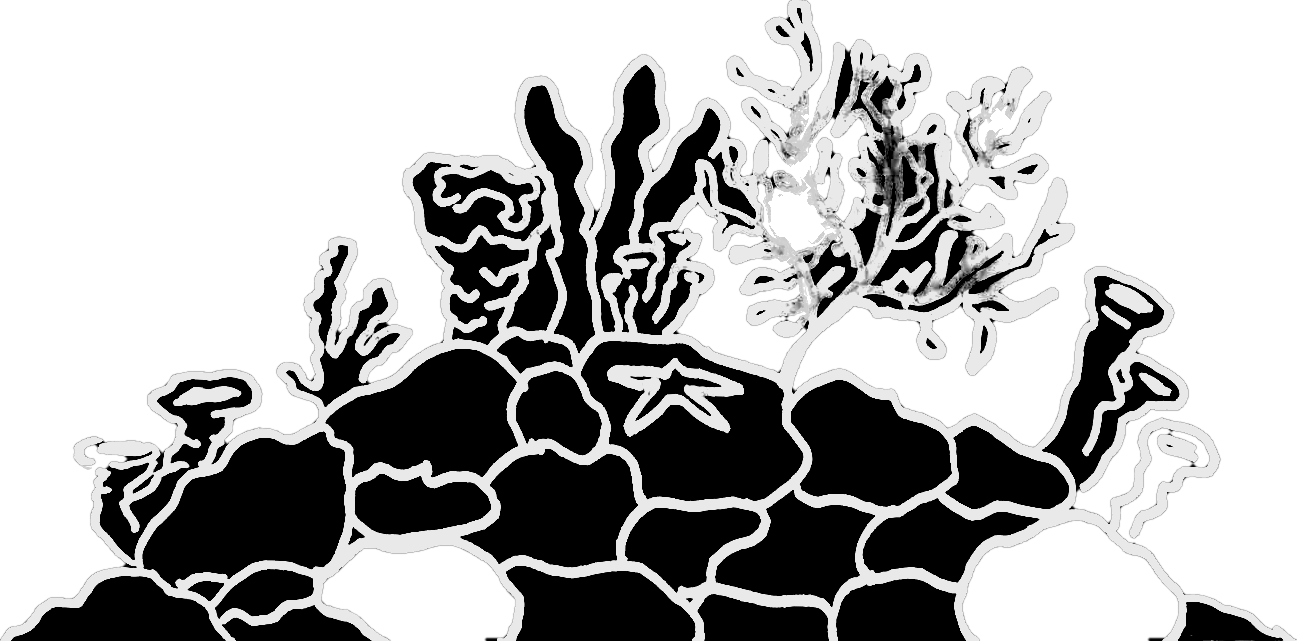
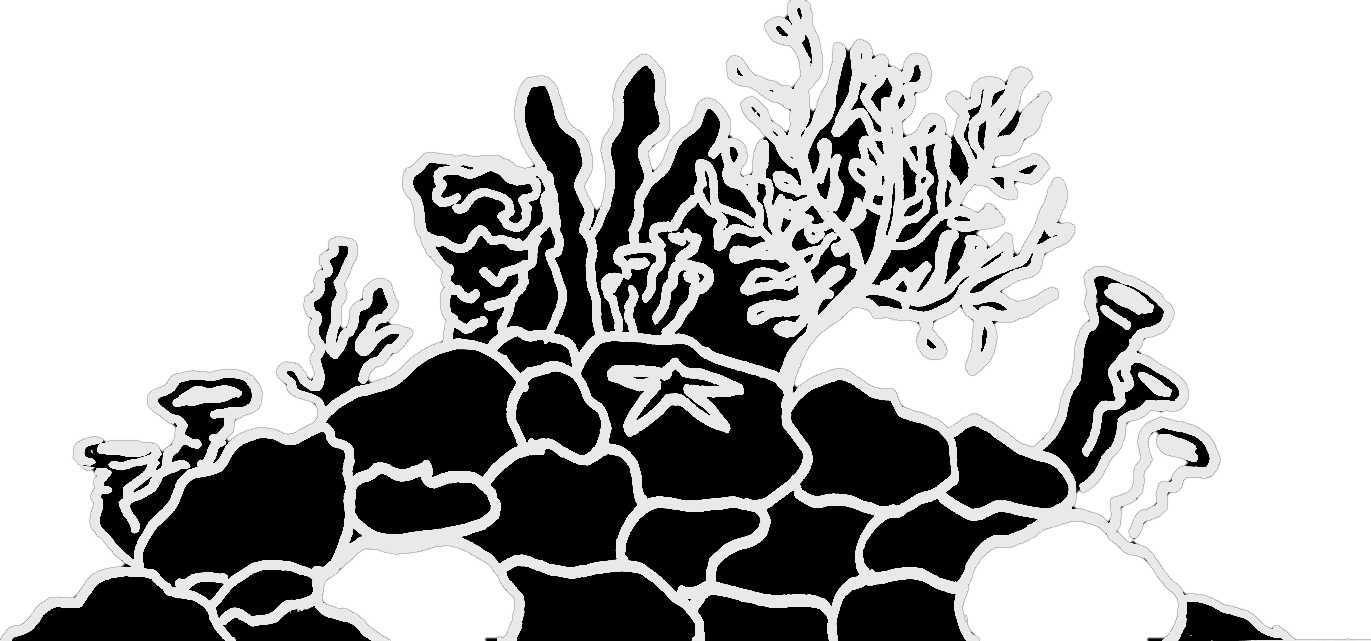
fix(v2): clean the ink smudges in the reef and keep the reefs apart on mobile

Changed region(s): [[0.0617, 0.0, 0.9252, 1.0], [0.8327, 0.936, 1.0, 1.0]]

diff --git a/v2/src/index.css b/v2/src/index.css
@@ -358,11 +358,11 @@ button {
 
   .delfin-outro-left {
     right: auto;
-    left: -62vh;
+    left: calc(40vw - 58vh * 2.14);
   }
 
   .delfin-outro-right {
     left: auto;
-    right: -62vh;
+    right: calc(40vw - 58vh * 2.14);
   }
 }
